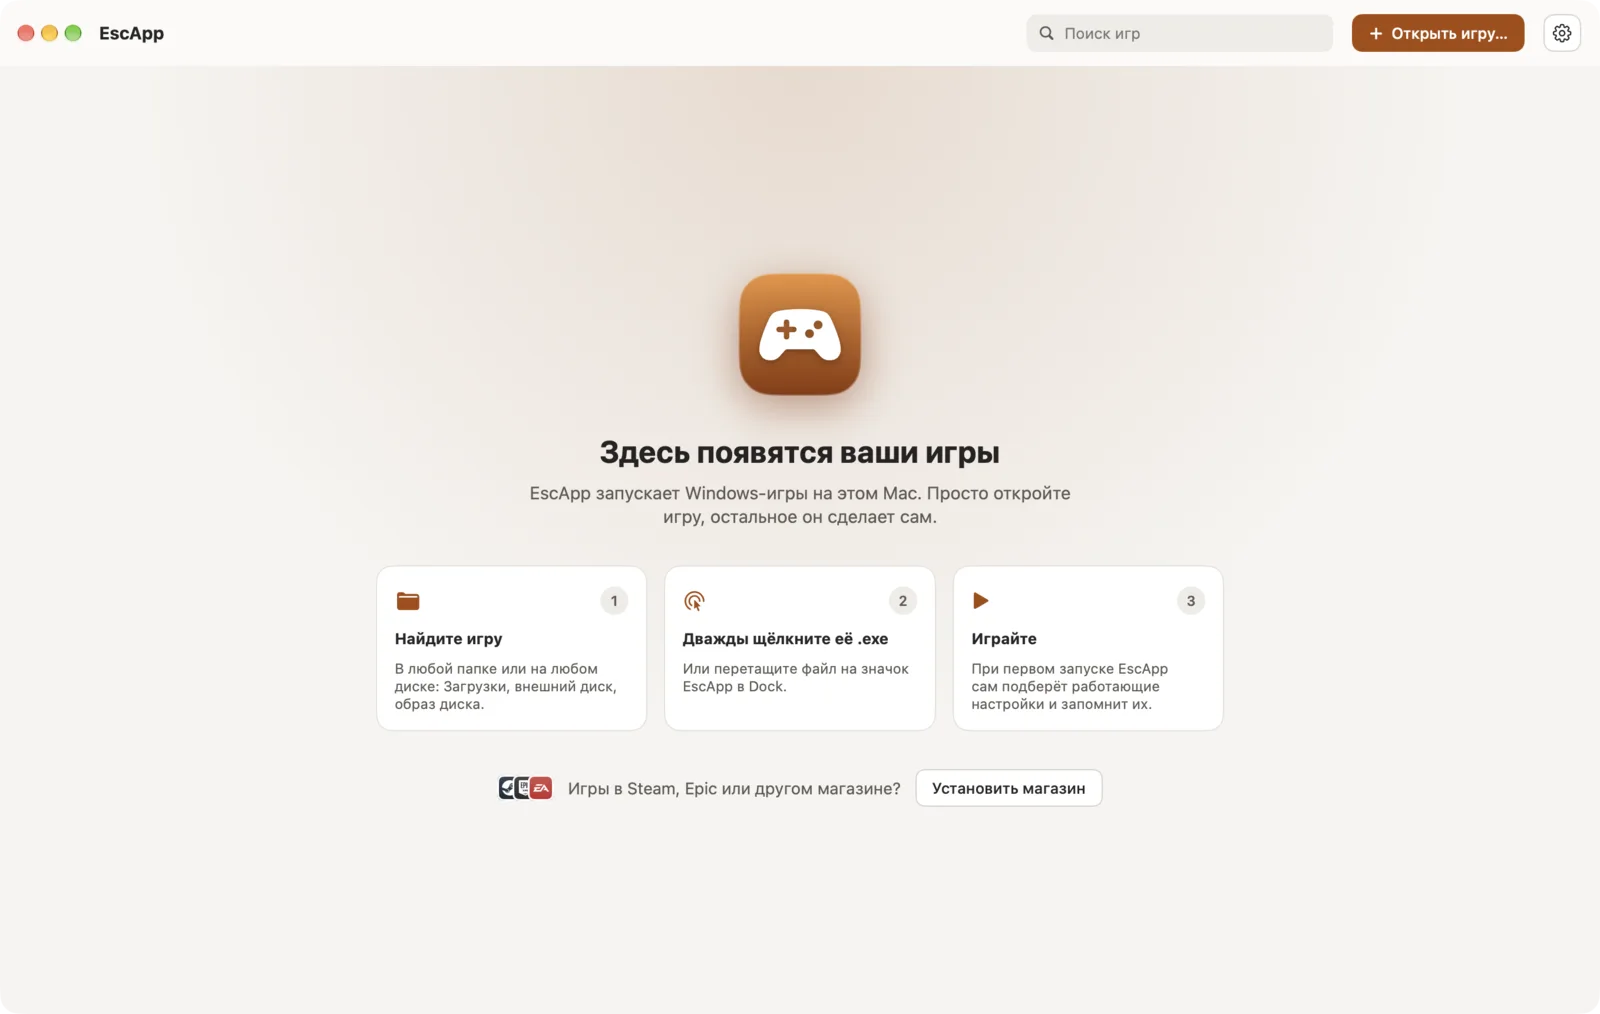
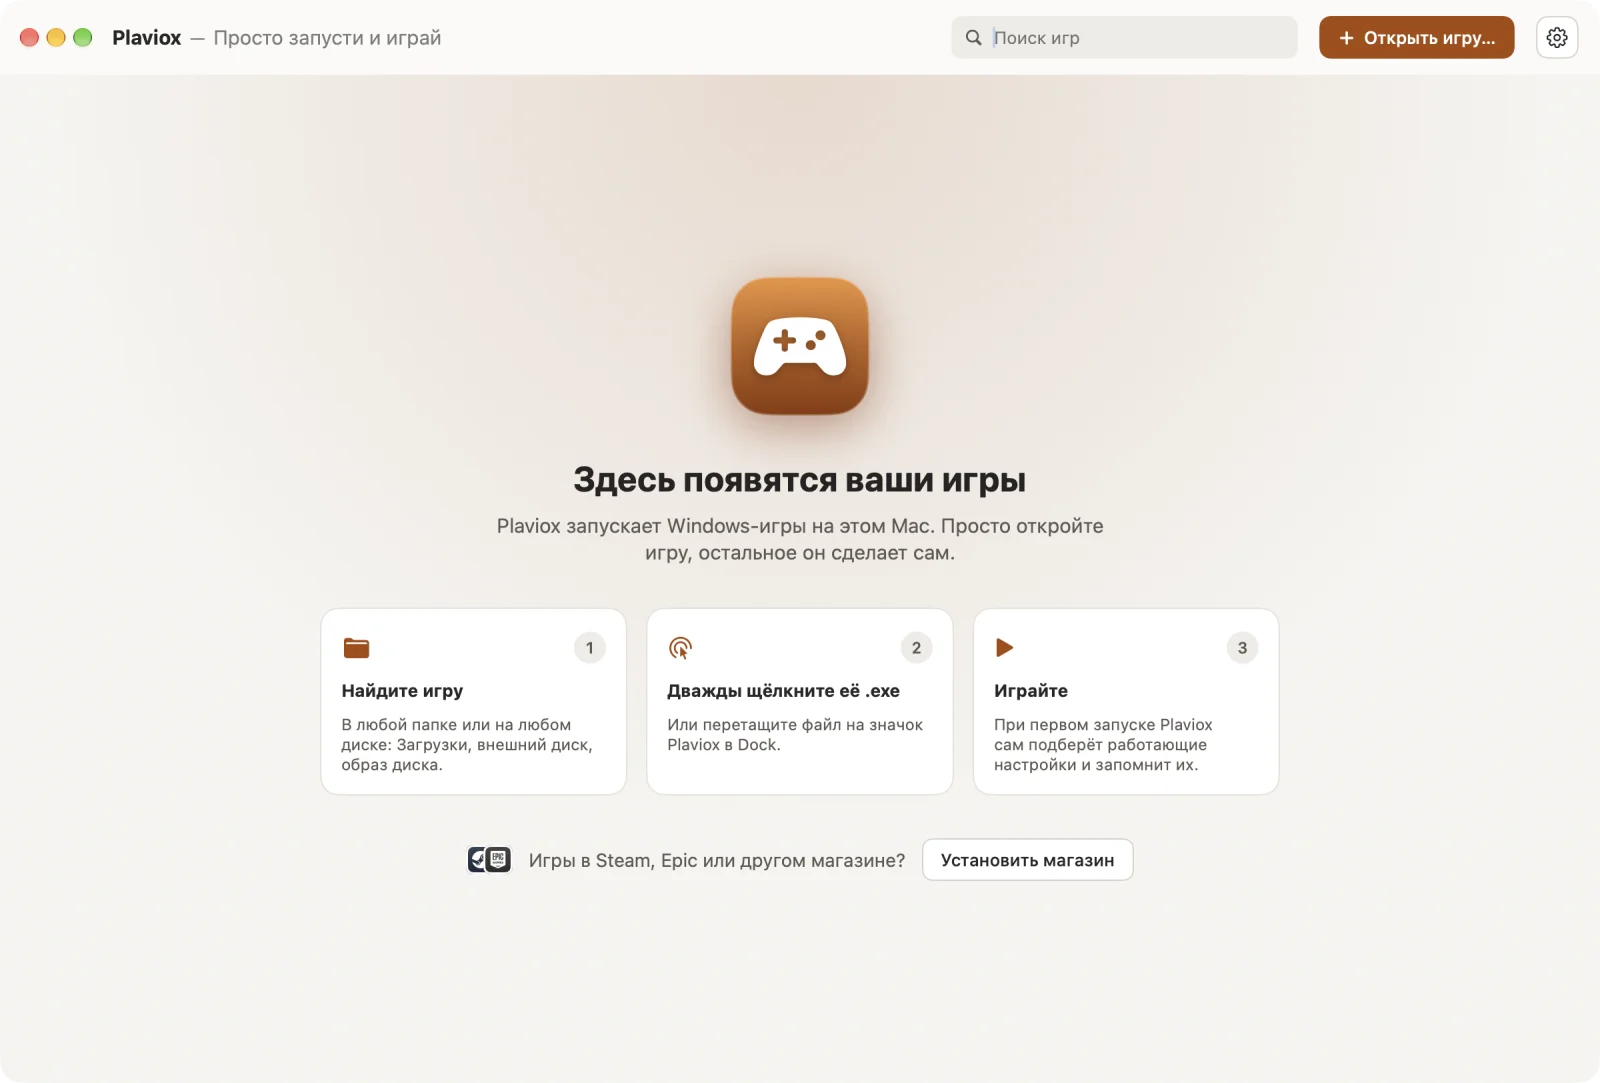
Header tagline and site screenshots under the new name
The library's header reads "Magic Kettle — Just open it and play" in each of the app's languages, dropping the
tagline when the window is too narrow for it. The site's screenshots were still of the app under its old name;
they are retaken in all nine languages at the window's current size.

diff --git a/App/Plaviox/LibraryView.swift b/App/Plaviox/LibraryView.swift
@@ -157,8 +157,18 @@ struct LibraryView: View {
                 }
                 .buttonStyle(BrandButtonStyle(height: 32, radius: 8))
             } else {
-                Text("Plaviox")
-                    .font(.system(size: 15, weight: .bold))
+                // In a window too narrow for the tagline next to the search field, only the name is left.
+                ViewThatFits(in: .horizontal) {
+                    HStack(spacing: 6) {
+                        appName
+                        Text(verbatim: "—").foregroundStyle(.secondary)
+                        Text("Just open it and play")
+                            .font(.system(size: 15))
+                            .foregroundStyle(.secondary)
+                    }
+                    .fixedSize()
+                    appName
+                }
                 Spacer(minLength: 0)
                 SearchField(text: $search)
                 Button { library.chooseGameFile() } label: {
@@ -178,6 +188,10 @@ struct LibraryView: View {
                 .accessibilityLabel("Settings")
             }
         }
+    }
+
+    private var appName: some View {
+        Text("Plaviox").font(.system(size: 15, weight: .bold))
     }
 
 }

diff --git a/site/template.html b/site/template.html
@@ -69,11 +69,11 @@
       <p class="sub">{{shots_lead}}</p>
       <div class="shots">
         <figure>
-          <img src="{{root}}screens/library-{{lang}}.webp" width="1600" height="1014" loading="lazy" alt="{{library_alt}}">
+          <img src="{{root}}screens/library-{{lang}}.webp" width="1600" height="1083" loading="lazy" alt="{{library_alt}}">
           <figcaption>{{library_caption}}</figcaption>
         </figure>
         <figure>
-          <img src="{{root}}screens/setup-{{lang}}.webp" width="1600" height="1012" loading="lazy" alt="{{setup_alt}}">
+          <img src="{{root}}screens/setup-{{lang}}.webp" width="1600" height="1083" loading="lazy" alt="{{setup_alt}}">
           <figcaption>{{setup_caption}}</figcaption>
         </figure>
       </div>
